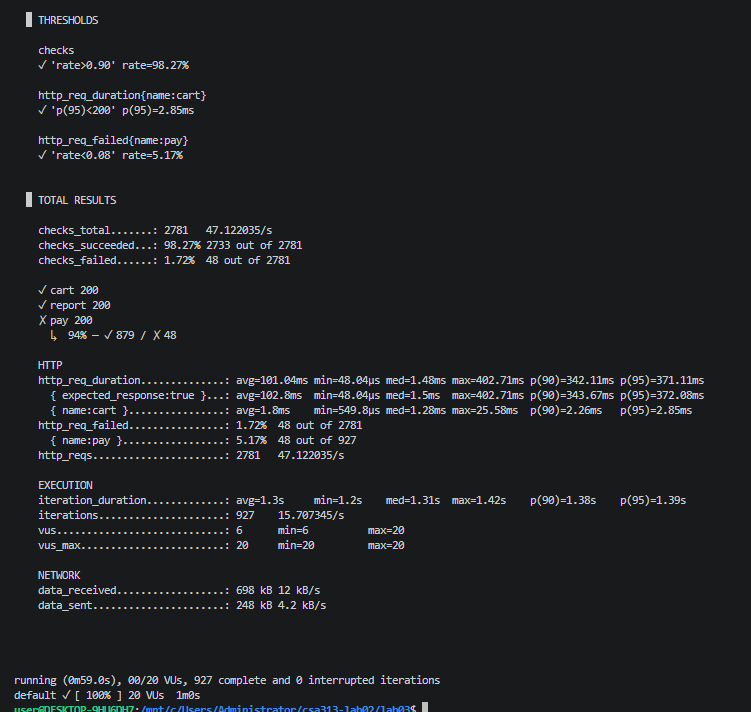
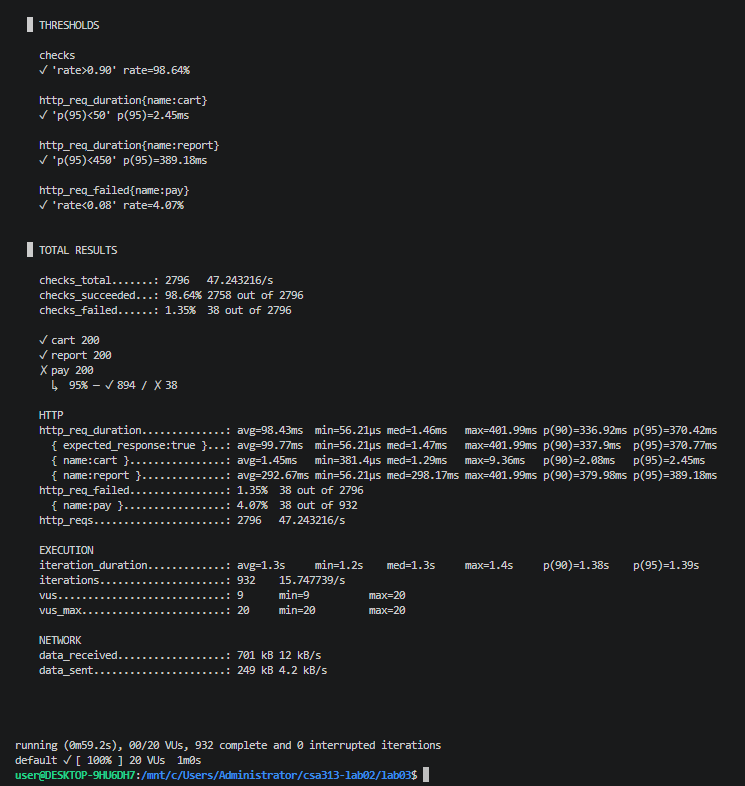
SLO болон k6 босго утгуудыг шинэчлэв
- /cart/add латент босгыг p(95) < 50ms болгон чангатгав
- /report endpoint-д зориулж p(95) < 450ms босго бүхий 4 дэх сценарийг нэмэв
- Reliability болон Availability шалгууруудыг шалгаж pass болгов

diff --git a/lab03/README.md b/lab03/README.md
@@ -36,12 +36,14 @@ Lab 03: Quality Scenarios, SLOs, and k6 Thresholds
 
 | Сценарио | SLI (Юуг хэмжих) | Босго (Threshold / SLO) | Цонх / нөхцөл |
 | :--- | :--- | :--- | :--- |
-| **Performance** | `/cart/add` latency[cite: 3] | $p95 < 200\text{ ms}$[cite: 3] | 20 VU тогтмол ачаалал, 1 мин[cite: 3] |
-| **Reliability** | `/pay` error rate[cite: 3] | $< 8\%$[cite: 3] | 1 мин, 20 VU[cite: 3] |
-| **Availability** | Бүх хүсэлтийн амжилтын хувь[cite: 3] | $\ge 90\%$[cite: 3] | 2 мин, 10с зогсолт орсон[cite: 3] |
+| **Performance (Cart)** | `/cart/add` latency[cite: 3] | p95 < 50 ms[cite: 3] | 20 VU тогтмол ачаалал, 1 мин[cite: 3] |
+| **Performance (Report)** | `/report` latency[cite: 3] | p95 < 450 ms[cite: 3] | 20 VU тогтмол ачаалал, 1 мин[cite: 3] |
+| **Reliability** | `/pay` error rate[cite: 3] | < 8%[cite: 3] | 1 мин, 20 VU[cite: 3] |
+| **Availability** | Бүх хүсэлтийн амжилтын хувь[cite: 3] | >= 90%[cite: 3] | 2 мин, 10с зогсолт орсон[cite: 3] |
 
 ### Босго утгыг сонгосон үндэслэл (Rationale)
 
-1. **Performance босго ($p95 < 200\text{ms}$):** `/cart/add` endpoint нь ямар нэгэн хүнд өгөгдлийн сангийн ажиллагаа болон тооцоолол хийдэггүй, шууд утга буцаадаг маш хөнгөн тул 20 VU ачаалалтай үед 200 миллисекундээс бага байх нь оновчтой бөгөөд бодитой зорилт юм[cite: 3].
-2. **Reliability босго ($< 8\%$):** Бидний бичсэн серверийн кодонд төлбөрийн хүсэлтийн **5%-д** санамсаргүй байдлаар 500 алдаа гаргахаар тусгасан[cite: 3]. Гэсэн хэдий ч туршилтын явцад гарч болох бага зэргийн хэлбэлзлийг (noise) тооцон босгыг 5% биш, харин **8%** гэж тогтоосон нь илүү уян хатан бөгөөд бодит үзүүлэлт болно[cite: 3].
-3. **Availability босго ($\ge 90\%$) ба Error Budget:** 2 минутын (120 секунд) нийт туршилтын хугацаанд 10 секундын зогсолт оруулахад систем 90%-ийн бэлэн байдлыг хангах шаардлагатай[cite: 3]. Энэ нь 12 секундын **"эвдрэх эрх" (error budget)** буюу зөвшөөрөгдөх зогсолтын хугацааг цагаар тооцож гаргаж буй хэрэг юм[cite: 3].
+1. **Performance босго (/cart/add - $p95 < 50\text{ms}$):** Энэ нь маш хөнгөн endpoint бөгөөд бодит тестээр $p95$ нь ~2.8ms гарч байсан[cite: 3]. Иймд 200ms гэдэг нь хэт сул босго тул утгыг нь 50ms болгон бодитойгоор чангатгасан[cite: 3].
+2. **Performance босго (/report - $p95 < 450\text{ms}$):** Энэ endpoint нь санамсаргүй байдлаар 200-400ms хүлээлт (`sleep`) үүсгэдэг тул бодит хэмжилтэд үндэслэн $p95$ босгыг 450ms байхаар дөрөв дэх сценарио болгон нэмсэн[cite: 3].
+3. **Reliability босго ($< 8\%$):** Код дотор 5% алдаа суулгасныг[cite: 3] харгалзан сүлжээний бага зэргийн хэлбэлзлийг тооцон 8% гэж тогтоосон[cite: 3].
+4. **Availability босго ($\ge 90\%$) ба Error Budget:** 2 минутын туршилтад 10 секундын зогсолт тооцож, 12 секундын "эвдрэх эрх"-ийг үндэслэн 90%-ийн босго тавьсан[cite: 3].
